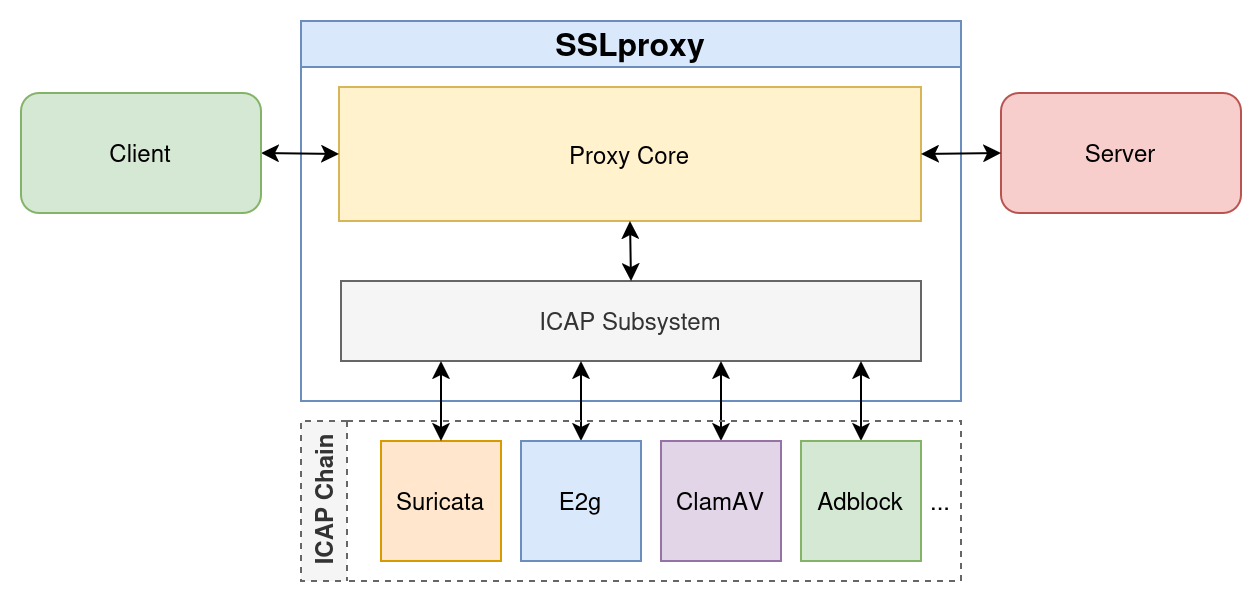
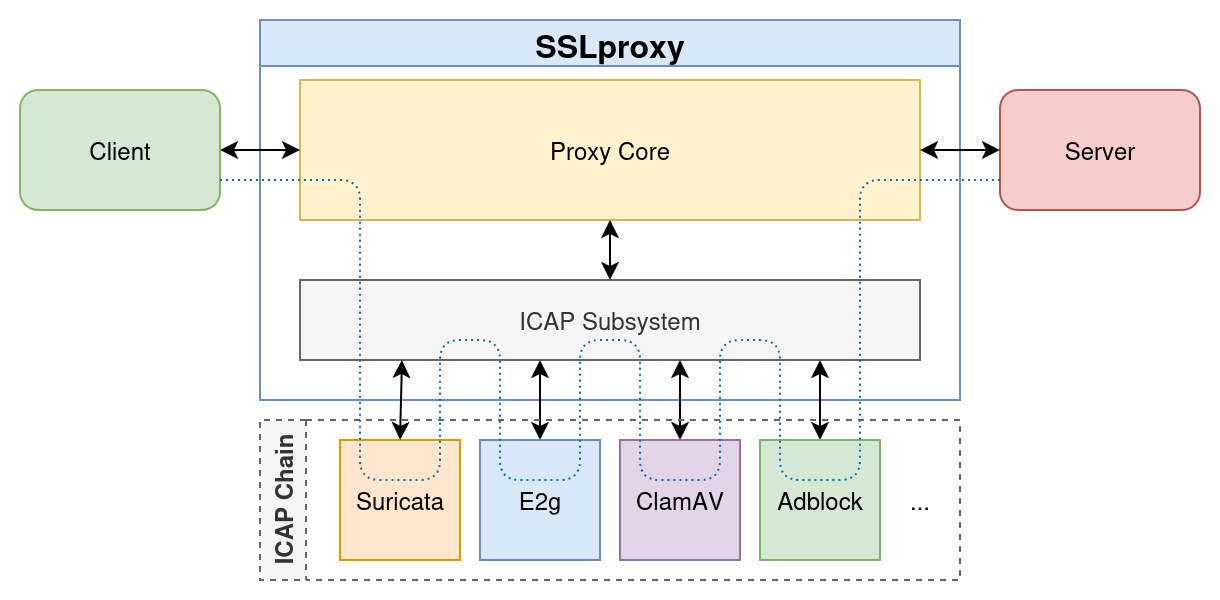
Improve Icap mode diagram and text

diff --git a/README.md b/README.md
@@ -55,7 +55,7 @@ the packets back from the program. Upon receiving the packets back, SSLproxy
 re-encrypts and sends them to their original destination. The return traffic 
 follows the same path back to the client in reverse order.
 
-![Divert Mode of Operation Diagram](docs/DivertMode.png)
+![Divert Mode Diagram](docs/DivertMode.png)
 
 This is similar in principle to [divert 
 sockets](https://man.openbsd.org/divert.4), where the packet filter diverts the 
@@ -88,13 +88,12 @@ operation. Instead, it should be combined with either Divert or Split mode.
 For example, SSLproxy can send ICAP requests for the content in a connection 
 that it also diverts to the listening program configured for it.
 
-![Icap Mode of Operation Diagram](docs/IcapMode.png)
+![Icap Mode Diagram](docs/IcapMode.png)
 
-You can configure multiple ICAP services. Up to a maximum of 16 services is 
-allowed per chain. But note that global specifications are copied into 
-proxyspecs and proxyspec specifications are copied into filtering rules, so 
-the total number of services in a chain is determined by the ordering in the 
-configuration file.
+You can configure multiple ICAP services, up to a maximum of 16 services per 
+chain. But note that global services are copied into proxyspecs, and proxyspec 
+services are copied into filtering rules. So the total number of services in a 
+filter rule chain is determined by the ordering in the configuration file.
 
 SSLproxy sends the contents to all of the ICAP services in the chain. The 
 output of the current ICAP service is passed to the next service in the chain, 
